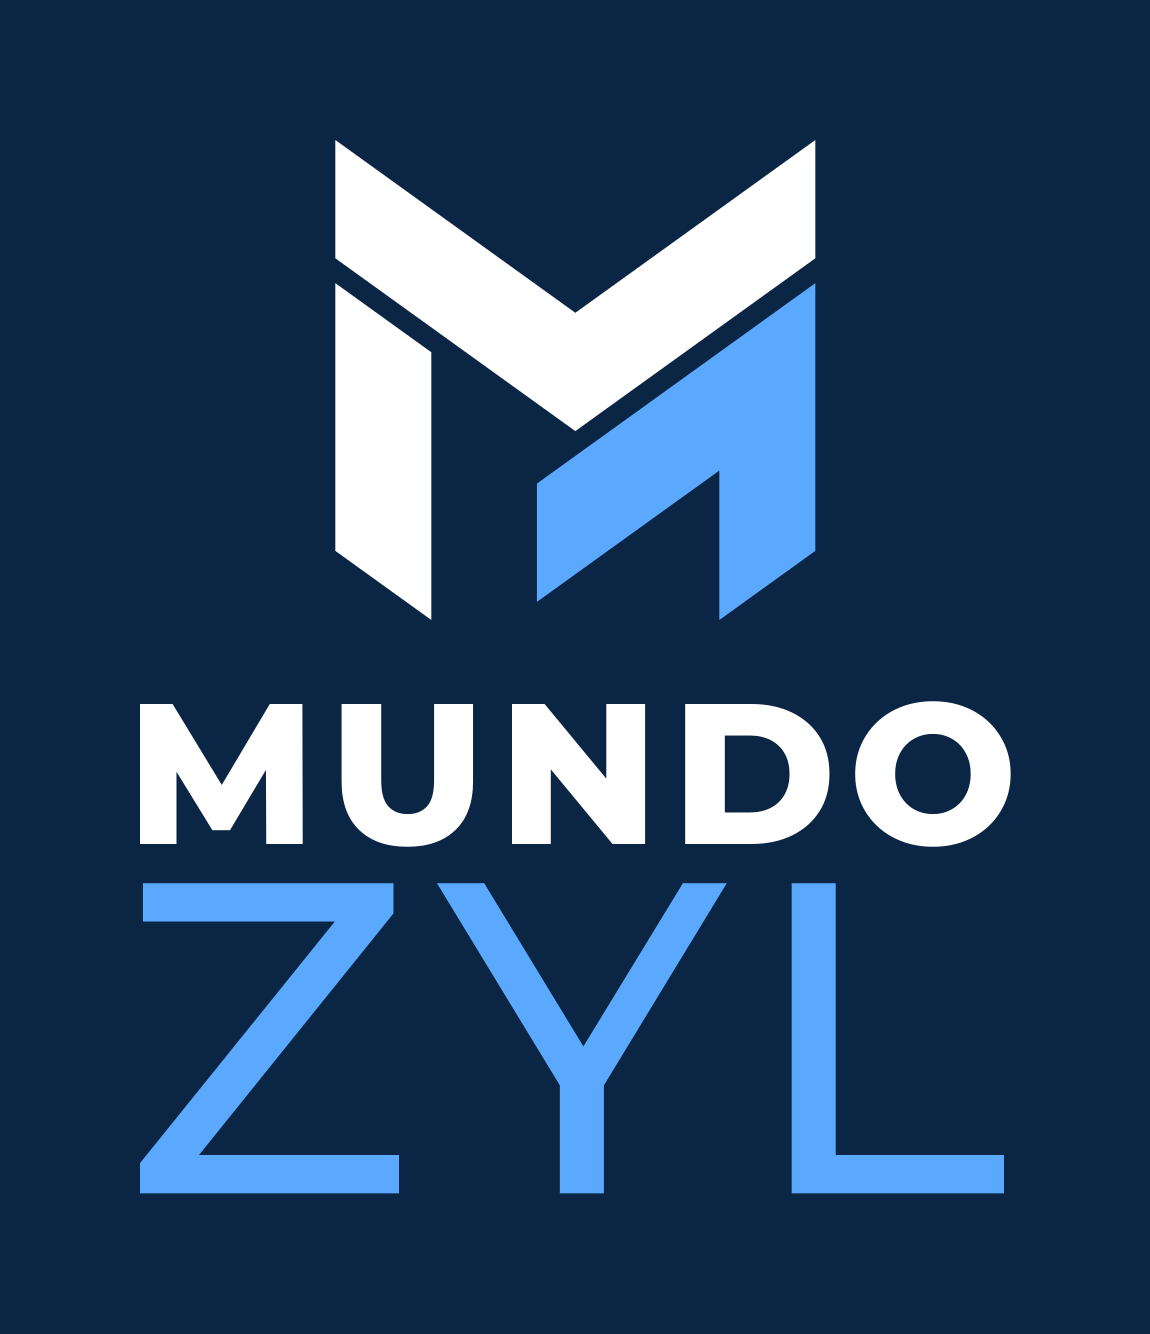
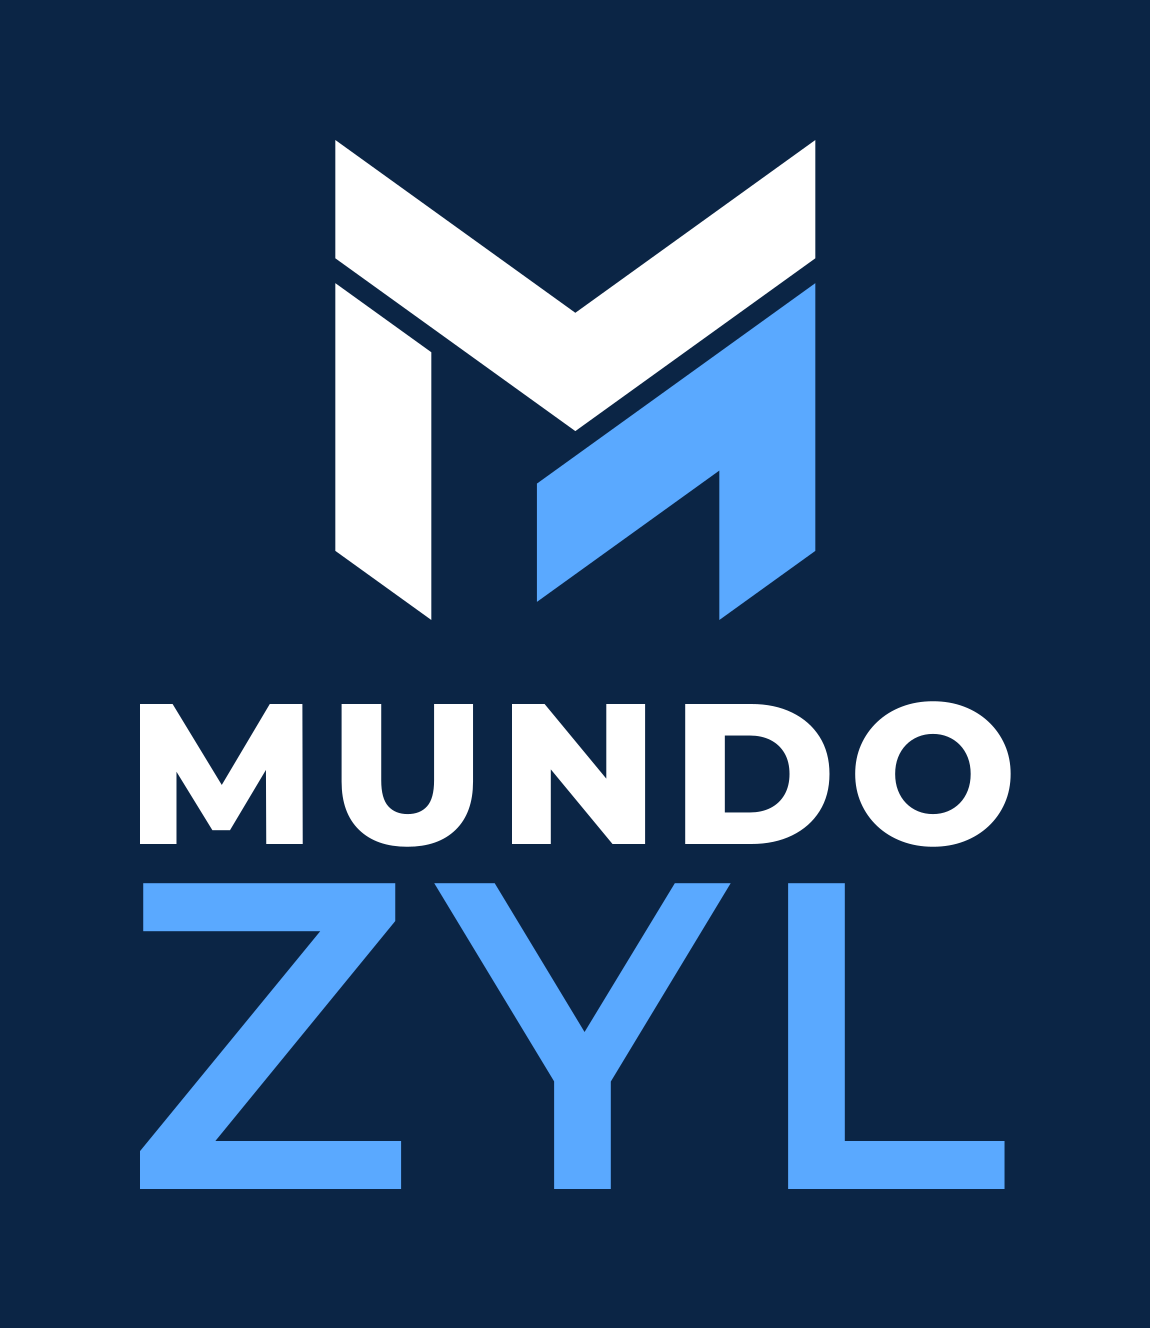
H2 en dos líneas: ZYL en Montserrat SemiBold
Claude-Session: https://claude.ai/code/session_017iQ7X2vjqNYmhsyQEQiYkp

diff --git a/herramientas/generar_logos_ronda3.py b/herramientas/generar_logos_ronda3.py
@@ -77,7 +77,7 @@ def tinta(cadena, cap, tracking, peso=700):
 # En dos líneas ZYL va ~2x más grande; para que el grosor del trazo se vea
 # parejo, MUNDO sube de peso y ZYL baja.
 PESO_MUNDO_2L = 800
-PESO_ZYL_2L = 500
+PESO_ZYL_2L = 600
 
 
 def proporcion_zyl(tr=0.06):

diff --git a/README.md b/README.md
@@ -9,7 +9,7 @@ Reproducción vectorial, depurada, de la referencia aportada por el cliente: una
 - **H1 · Negro + azul** (`#141414` / `#0E9BE8`): fiel a la referencia.
 - **H2 · Azul profundo + azul** (`#0B2545` / `#0E9BE8`): variante más corporativa.
 
-**Elegida: H2.** Incluye además versiones con el nombre en **dos líneas**: MUNDO (Montserrat ExtraBold) sobre ZYL más grande (Montserrat Medium), ambas al mismo ancho y con grosor de trazo equilibrado: `*_horizontal_2lineas*` y `*_vertical_2lineas*` (ver `propuestas/ronda3/lamina_H2_2lineas.png`).
+**Elegida: H2.** Incluye además versiones con el nombre en **dos líneas**: MUNDO (Montserrat ExtraBold) sobre ZYL más grande (Montserrat SemiBold), ambas al mismo ancho y con grosor de trazo equilibrado: `*_horizontal_2lineas*` y `*_vertical_2lineas*` (ver `propuestas/ronda3/lamina_H2_2lineas.png`).
 
 Ver `propuestas/ronda3/lamina_comparativa.png`. Regenerar: `python3 herramientas/generar_logos_ronda3.py`
 
